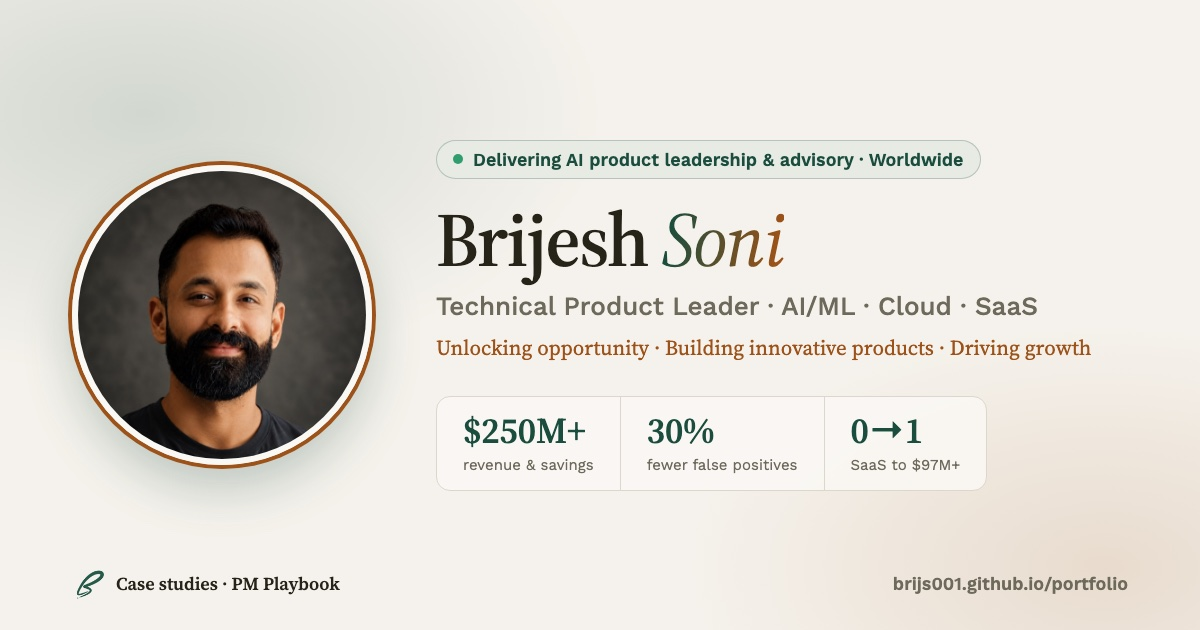
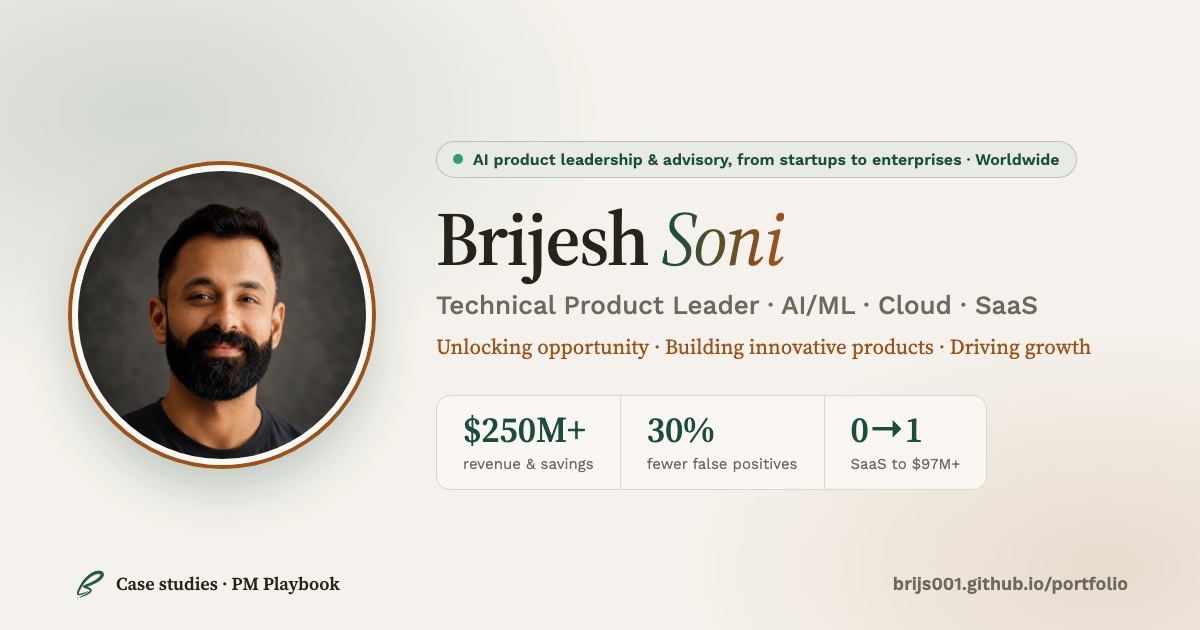
Startup-ready hero pill, mobile playbook order, small-phone fixes
- Hero pill: "AI product leadership & advisory, from startups to enterprises ·
  Worldwide"; regenerate the link-preview card to match
- Playbook on stacked layouts: options, lifecycle phases, Run button, then
  console; rename the phase heading to "Phases of product lifecycle", centered
- Small phones (≤360–380px): show the logo without the name and drop tab icons
  so the header and tab switcher fit without horizontal scroll
- Add RECOMMENDATIONS.md (excluded from the published site)

diff --git a/design-source/og-card.html b/design-source/og-card.html
@@ -7,7 +7,7 @@ body{width:1200px;height:630px;overflow:hidden;font-family:"Work Sans";color:#26
  background:radial-gradient(ellipse 55% 60% at 12% 18%,rgba(26,77,62,.16),transparent 70%),radial-gradient(ellipse 50% 55% at 92% 90%,rgba(156,82,24,.14),transparent 70%),#f5f2ec;}
 .wrap{position:absolute;inset:0;padding:64px 72px;display:grid;grid-template-columns:300px 1fr;gap:64px;align-items:center}
 .photo{width:300px;height:300px;border-radius:50%;object-fit:cover;object-position:center top;border:6px solid #faf8f4;box-shadow:0 0 0 4px #9c5218,0 24px 48px rgba(26,77,62,.25)}
-.pill{display:inline-flex;align-items:center;gap:10px;padding:8px 16px;border-radius:999px;font-size:18px;font-weight:600;color:#1a4d3e;background:#e7ebe4;border:1px solid rgba(26,77,62,.25);margin-bottom:22px}
+.pill{display:inline-flex;align-items:center;gap:10px;padding:8px 16px;border-radius:999px;font-size:16px;white-space:nowrap;font-weight:600;color:#1a4d3e;background:#e7ebe4;border:1px solid rgba(26,77,62,.25);margin-bottom:22px}
 .dot{width:10px;height:10px;border-radius:50%;background:#2f9e6e}
 h1{font-family:"Source Serif 4";font-weight:600;font-size:76px;line-height:1;letter-spacing:-.02em;margin-bottom:14px}
 h1 span{font-style:italic;font-weight:400;background:linear-gradient(100deg,#1a4d3e 10%,#9c5218 90%);-webkit-background-clip:text;color:transparent}
@@ -24,7 +24,7 @@ h1 span{font-style:italic;font-weight:400;background:linear-gradient(100deg,#1a4
 <div class="wrap">
  <img class="photo" src="profile-photo.jpg" alt="">
  <div>
-  <div class="pill"><span class="dot"></span>Delivering AI product leadership &amp; advisory · Worldwide</div>
+  <div class="pill"><span class="dot"></span>AI product leadership &amp; advisory, from startups to enterprises · Worldwide</div>
   <h1>Brijesh <span>Soni</span></h1>
   <p class="title">Technical Product Leader · AI/ML · Cloud · SaaS</p>
   <p class="tag">Unlocking opportunity · Building innovative products · Driving growth</p>

diff --git a/assets/css/_partials/playbook.css b/assets/css/_partials/playbook.css
@@ -156,6 +156,10 @@
   }
 }
 
+.phase-heading {
+  text-align: center;
+}
+
 .phase-list {
   display: grid;
   gap: var(--space-1);
@@ -343,4 +347,52 @@
   font-size: var(--text-sm);
   color: var(--color-text);
   max-width: none;
+}
+
+/* Very small phones: drop the tab icons so both tabs fit */
+@media (max-width: 380px) {
+  .tab {
+    padding-inline: var(--space-3);
+  }
+
+  .tab svg {
+    display: none;
+  }
+}
+
+/* Stacked layout (tablet and mobile): options → lifecycle → Run → console.
+   The two wrappers are flattened so their children can be ordered as one column. */
+@media (max-width: 899px) {
+  .playbook-card {
+    display: flex;
+    flex-direction: column;
+    gap: var(--space-6);
+  }
+
+  .playbook-controls,
+  .playbook-grid {
+    display: contents;
+  }
+
+  .playbook-group {
+    order: 1;
+  }
+
+  .playbook-grid > .playbook-panel:first-child {
+    order: 2;
+  }
+
+  .run-frame {
+    order: 3;
+    width: 100%;
+    margin-left: 0;
+  }
+
+  .playbook-run {
+    flex: 1;
+  }
+
+  .console-panel {
+    order: 4;
+  }
 }

diff --git a/_includes/sections/hero.html b/_includes/sections/hero.html
@@ -1,7 +1,7 @@
 <section class="hero" id="hero">
   <div class="container hero-center">
     <img class="hero-avatar" src="assets/img/profile-photo.jpg" alt="Portrait of Brijesh Soni" width="640" height="702" fetchpriority="high">
-    <p class="availability"><span class="pulse-dot" aria-hidden="true"></span>Delivering AI product leadership &amp; advisory · Worldwide</p>
+    <p class="availability"><span class="pulse-dot" aria-hidden="true"></span>AI product leadership &amp; advisory, from startups to enterprises · Worldwide</p>
     <h1>Hi, I'm <span class="name-accent">Brijesh Soni</span></h1>
     <p class="hero-tagline">
       <span>Unlocking opportunity.</span>

diff --git a/_includes/sections/playbook.html b/_includes/sections/playbook.html
@@ -41,7 +41,7 @@
 
           <div class="playbook-grid">
             <div class="playbook-panel">
-              <p class="panel-tag">8-phase product lifecycle</p>
+              <p class="panel-tag phase-heading">Phases of product lifecycle</p>
               <ol class="phase-list" id="phaseList">
                 <li>Problem framing</li>
                 <li>Customer discovery</li>

diff --git a/assets/css/_partials/header.css b/assets/css/_partials/header.css
@@ -257,3 +257,10 @@
 [data-theme="dark"] .brand-mark {
   filter: brightness(2.3) saturate(0.85);
 }
+
+/* Very small phones (≤360px): the logo alone keeps all header buttons on screen */
+@media (max-width: 360px) {
+  .brand-name {
+    display: none;
+  }
+}

diff --git a/assets/css/_partials/responsive.css b/assets/css/_partials/responsive.css
@@ -47,14 +47,6 @@
     border-radius: var(--radius-md);
   }
 
-  .run-frame {
-    width: 100%;
-    margin-left: 0;
-  }
-
-  .playbook-run {
-    flex: 1;
-  }
 
   .console-body {
     height: 300px;

diff --git a/RECOMMENDATIONS.md b/RECOMMENDATIONS.md
@@ -1,0 +1,54 @@
+# Portfolio recommendations
+
+Next improvements to help recruiters and hiring managers, especially at startups, say yes quickly. Ordered by priority. Tick items off as they ship.
+
+## 1. Fix first: credibility
+
+Recruiters and hiring managers cross-check what they read, so these carry the most risk.
+
+- [ ] **Back up the "$250M+" headline stat.** The case studies add up to about $98M ($97M+ from Circular Navigator and ~$1M in fraud losses prevented). Either name where the rest comes from (in a case study or the About section) or replace the stat with a number the page already proves.
+  - *Needed:* the source behind $250M+.
+- [ ] **Use one title everywhere.** The site currently says "Technical Product Leader" (tab title, social card), "Sr. Technical Product Manager" (career timeline), and "Senior Technical Product Manager" (structured data, site description). Pick one positioning, ideally matching the LinkedIn headline, and align the rest.
+  - *Needed:* your preferred title.
+- [ ] **Check confidentiality.** The Bank of America case study shares internal detail (8-agent architecture, false-positive rates, ~$1M losses prevented). Confirm this is within your employer's public-disclosure policy.
+
+## 2. High impact: make saying yes easy
+
+- [ ] **30-second summary in each case study.** Three bullets at the top of each drawer: the problem, what I did, the result.
+- [ ] **"Schedule a conversation" opens a booking link** (Calendly or Google Calendar) instead of the message form.
+  - *Needed:* booking link.
+- [ ] **Location and work logistics** in the Contact section, e.g. "Based in [city] · Open to remote / hybrid · [time zone]".
+  - *Needed:* city, work preferences, time zone.
+- [ ] **Custom domain** (e.g. brijeshsoni.com) instead of brijs001.github.io/portfolio. GitHub Pages supports this for free; only the domain costs money.
+  - *Needed:* decision and domain purchase.
+- [ ] **Lean into startup positioning:**
+  - [ ] Founder-focused hero sentence, e.g. *"I find the problem worth solving, ship the first version, and scale it to revenue — from a 0→1 SaaS that reached $97M+ to agentic AI in production. 15+ years in tech, 8+ in product."*
+  - [ ] Put the 0→1 stat first in the hero stats strip.
+  - [ ] Put Circular Navigator (0→1) as the first case study, agentic AI second.
+  - [ ] Optionally mention "founding or early-stage PM roles" in the "Hiring a product leader?" card.
+- [ ] **Testimonials.** Two short quotes from LinkedIn recommendations (a manager or stakeholder), placed under the case studies.
+  - *Needed:* the quotes, with permission to use names and titles.
+
+## 3. Polish
+
+- [ ] **Smaller avatar image.** The hero uses a 640px photo displayed at ~108px; a smaller version loads faster on phones.
+- [ ] **Response-time line** by the contact buttons, e.g. "I reply within 24 hours" — only if it's true.
+- [ ] **Branded "page not found" page** so mistyped or old links still lead visitors back to the portfolio.
+- [ ] **Review analytics after two weeks.** Check case study opens, playbook runs, and contact clicks in GA4 (see README), and adjust the page based on what visitors actually do.
+
+## Still open from earlier
+
+- [ ] Redeploy `apps-script/Code.gs` as a new version of the existing web app deployment (Deploy → Manage deployments → Edit → New version).
+- [ ] Send one real test message through the live contact form.
+- [ ] Refresh the LinkedIn link preview in the Post Inspector (linkedin.com/post-inspector).
+- [ ] Decide whether to remove the old email address that appears in the public git history (requires rewriting history).
+
+## Summary: who does what
+
+| Can be done now without input | Needs input from you |
+|---|---|
+| 30-second case study summaries | Source for "$250M+" |
+| Startup hero sentence, stats order, case study order | Preferred title |
+| Smaller avatar image | Booking link, location, work preferences |
+| "Page not found" page | Testimonial quotes |
+| | Custom domain decision |
